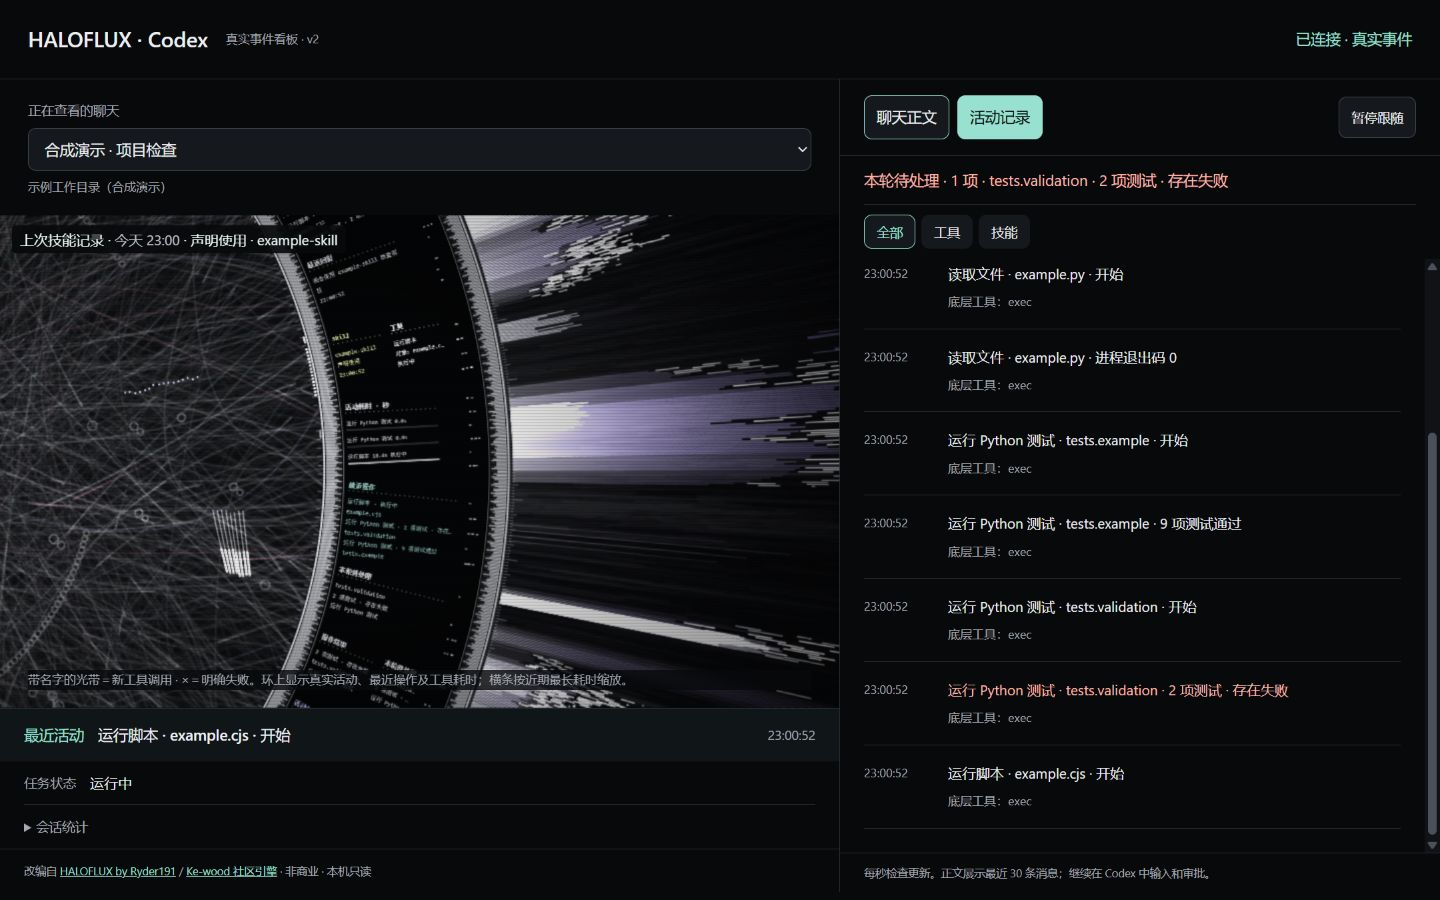
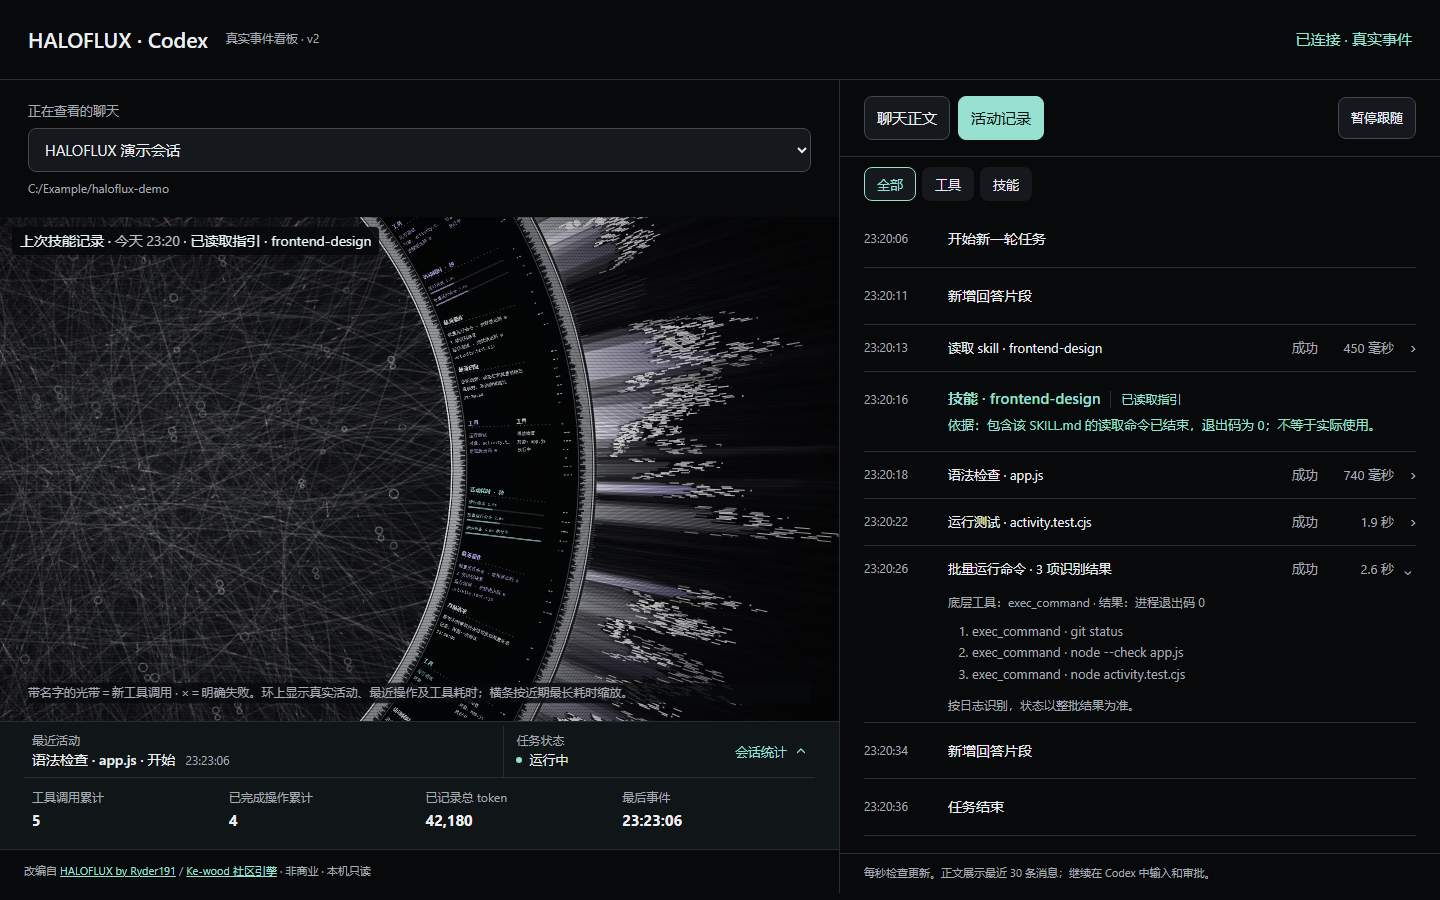
Refresh README preview for the updated dashboard

diff --git a/README.en.md b/README.en.md
@@ -6,7 +6,7 @@ A **standalone live dashboard** that maps local Codex session activity onto the 
 
 **Preview `0.1.0-preview.1` · Node.js 22+ · No third-party runtime dependencies · Noncommercial use only**
 
-![HALOFLUX Codex: synthetic session preview](docs/preview.png)
+![HALOFLUX Codex dashboard with an expanded status strip, a skill record, and batch command details](docs/preview.png)
 
 *The preview uses only synthetic events and example filenames, not real conversations or training data.*
 

diff --git a/README.md b/README.md
@@ -6,7 +6,7 @@ A **standalone live dashboard** that maps local Codex session activity onto the 
 
 **Preview `0.1.0-preview.1` · Node.js 22+ · No third-party runtime dependencies · Noncommercial use only**
 
-![HALOFLUX Codex: synthetic session preview](docs/preview.png)
+![HALOFLUX Codex dashboard with an expanded status strip, a skill record, and batch command details](docs/preview.png)
 
 *The preview uses only synthetic events and example filenames, not real conversations or training data.*
 

diff --git a/README.zh-CN.md b/README.zh-CN.md
@@ -6,7 +6,7 @@
 
 **预览版 `0.1.0-preview.1` · Node.js 22+ · 无第三方运行依赖 · 仅限非商业使用**
 
-![HALOFLUX Codex：合成会话预览](docs/preview.png)
+![HALOFLUX Codex 看板预览，展示展开后的状态栏、技能记录和批量命令明细](docs/preview.png)
 
 *预览图完全使用合成会话与示例文件名，不是真实聊天或训练数据。*
 
